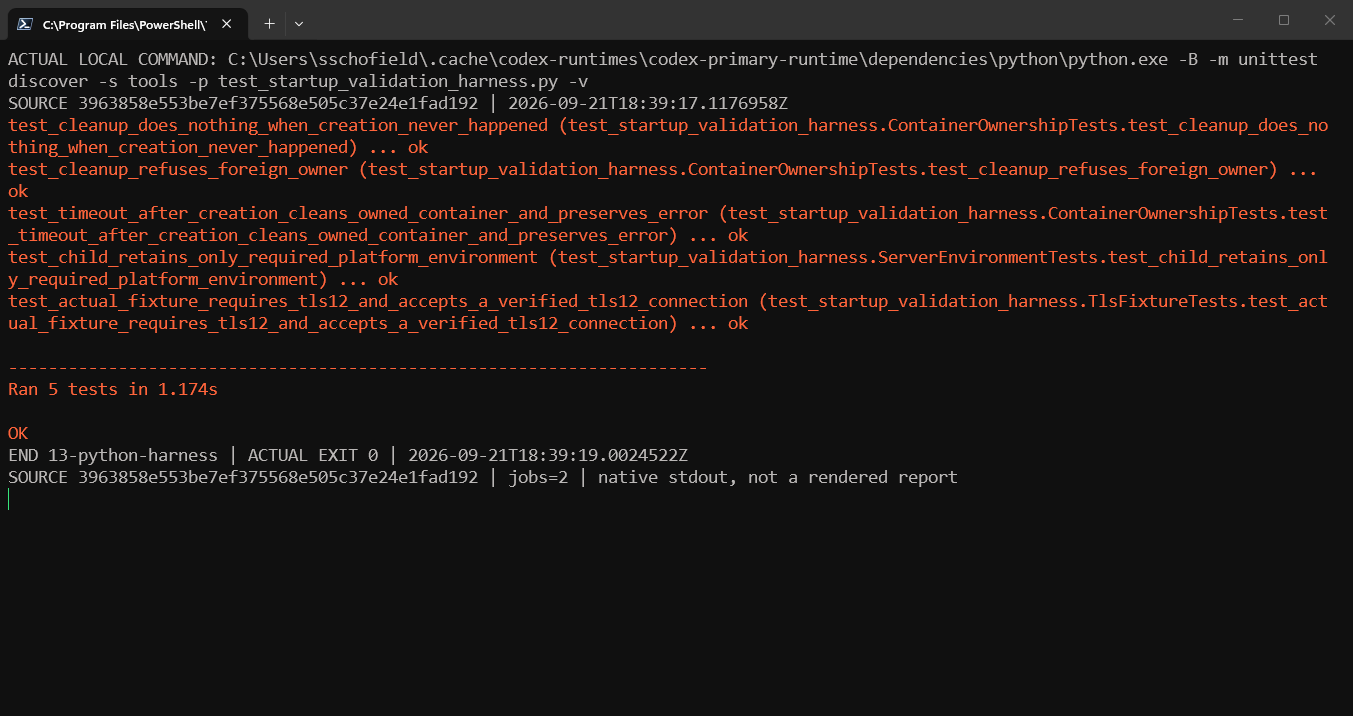
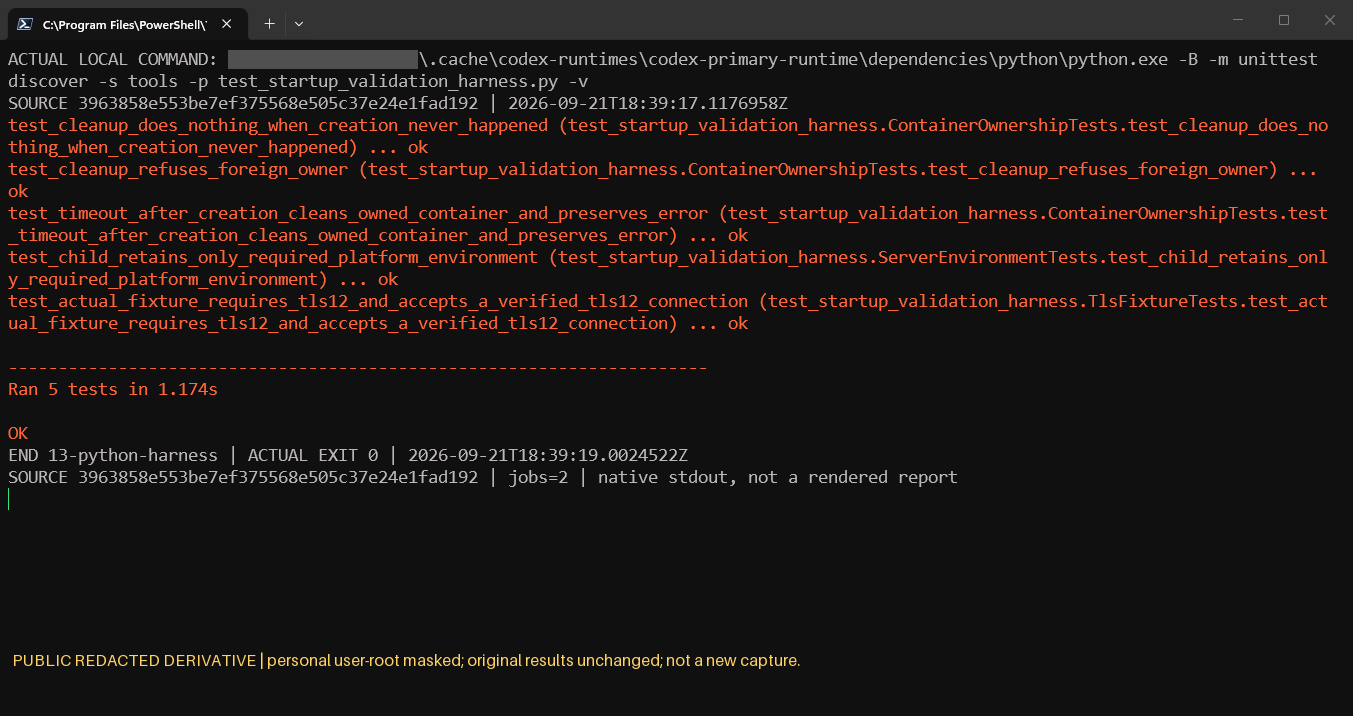
fix(evidence): bound metadata replay and disclose privacy derivatives

Changed region(s): [[0.1242, 0.9218, 0.5898, 0.9525], [0.1552, 0.0615, 0.3104, 0.1229], [0.031, 0.9218, 0.0931, 0.9525]]

diff --git a/tools/test_public_evidence_verifier.py b/tools/test_public_evidence_verifier.py
@@ -331,6 +331,99 @@ class PublicEvidenceVerifierTests(unittest.TestCase):
             self.mutate_manifest(base, lambda manifest: manifest["archive_members"].append(dict(manifest["archive_members"][0])))
             self.assert_refused(base, "duplicate archive path")
 
+    def test_duplicate_image_rows_are_rejected_before_payload(self):
+        for alias in (False, True):
+            with self.subTest(case_alias=alias), self.packet_copy() as base:
+                def duplicate(manifest):
+                    row = dict(manifest["images"][0])
+                    if alias:
+                        row["path"] = row["path"].upper()
+                    manifest["images"].append(row)
+                self.mutate_manifest(base, duplicate)
+                self.assert_inventory_refused_before_payload(base, "duplicate image path")
+
+    def test_image_metadata_count_and_type_are_admitted_before_payload(self):
+        for count in (PACKET_FILE_COUNT - 1, PACKET_FILE_COUNT, None):
+            with self.subTest(count=count), self.packet_copy() as base:
+                def replace(manifest):
+                    manifest["images"] = ([dict(manifest["images"][0])] * count
+                                          if count is not None else {})
+                self.mutate_manifest(base, replace)
+                message = ("duplicate image path" if count == PACKET_FILE_COUNT - 1
+                           else "image manifest exceeds file limit")
+                self.assert_inventory_refused_before_payload(base, message)
+
+    def replace_readme(self, base, text):
+        data = text.encode("utf-8")
+        (base / PACKETS[0] / "README.md").write_bytes(data)
+
+        def update(manifest):
+            row = next(row for row in manifest["delivered_files"] if row["path"] == "README.md")
+            row.update(sha256=hashlib.sha256(data).hexdigest(), bytes=len(data))
+            row.pop("canonical_lf_sha256", None)
+        self.mutate_manifest(base, update)
+
+    def test_readme_reference_count_boundary_and_plus_one(self):
+        for reference in ("[local](README.md)", "[external](https://example.invalid)",
+                          "[anchor](#section)", "[empty]()"):
+            for count in (PACKET_FILE_COUNT, PACKET_FILE_COUNT + 1):
+                with self.subTest(reference=reference, count=count), self.packet_copy() as base:
+                    self.replace_readme(base, reference * count)
+                    verifier = self.verifier_module()
+                    original = verifier.read_file
+                    readmes = 0
+                    links_active = False
+                    link_checks = []
+                    regular = verifier.regular_file
+
+                    def read(root, relative, **kwargs):
+                        nonlocal readmes, links_active
+                        if root != base / PACKETS[0]:
+                            links_active = False
+                        data = original(root, relative, **kwargs)
+                        if root == base / PACKETS[0] and relative == "README.md":
+                            readmes += 1
+                            links_active = readmes == 2
+                        return data
+
+                    def inspect(root, relative):
+                        if root == base / PACKETS[0] and links_active:
+                            link_checks.append(relative)
+                        return regular(root, relative)
+
+                    with (patch.object(verifier, "read_file", side_effect=read),
+                          patch.object(verifier, "regular_file", side_effect=inspect)):
+                        if count == PACKET_FILE_COUNT:
+                            verifier.verify(base)
+                            expected = count if reference == "[local](README.md)" else 0
+                            self.assertEqual(len(link_checks), expected)
+                        else:
+                            with self.assertRaisesRegex(AssertionError, "README exceeds reference limit"):
+                                verifier.verify(base)
+                            self.assertEqual(link_checks, [], "Reference lookup before metadata admission.")
+
+    def test_readme_unmatched_marker_boundary_and_plus_one(self):
+        for count in (PACKET_FILE_COUNT, PACKET_FILE_COUNT + 1):
+            with self.subTest(count=count), self.packet_copy() as base:
+                self.replace_readme(base, "](" * count)
+                if count == PACKET_FILE_COUNT:
+                    result = self.invoke(base / PACKETS[-1] / "verify_public.py")
+                    self.assertEqual(result.returncode, 0, result.stderr)
+                else:
+                    self.assert_refused(base, "README exceeds reference limit")
+
+    def test_readme_scanning_does_not_allocate_regex_matches(self):
+        with self.packet_copy() as base:
+            # Preserve local/cross-packet, external, fragment and empty-link
+            # semantics, followed by an unmatched suffix. No timing threshold.
+            self.replace_readme(base, "[local](README.md) [fragment](#section) [empty]() "
+                f"[cross](../{PACKETS[1]}/README.md) [external](https://example.invalid) "
+                + "](" * (PACKET_FILE_COUNT - 5))
+            verifier = self.verifier_module()
+            with patch.object(verifier.re, "findall",
+                              side_effect=RuntimeError("unbounded regex match allocation")):
+                verifier.verify(base)
+
     def test_intact_copy_under_linked_temporary_parent_is_accepted(self):
         with tempfile.TemporaryDirectory(prefix="ecorp-public-evidence-temp-parent-") as root:
             parent = Path(root).resolve(strict=True)

diff --git a/docs/evidence/pr362-combined-20260921/verify_public.py b/docs/evidence/pr362-combined-20260921/verify_public.py
@@ -138,6 +138,9 @@ def verify(base, source=None):
         delivered = [filename(row['path']) for row in manifest['delivered_files']]
         assert len(delivered) == len(set(path.casefold() for path in delivered)), 'duplicate packet filename'
         assert 'manifest.json' not in delivered, 'manifest cannot hash itself'
+        assert isinstance(manifest['images'], list) and len(manifest['images']) < MAX_PACKET_FILES, 'image manifest exceeds file limit'
+        images = [filename(row['path']) for row in manifest['images']]
+        assert len(images) == len(set(path.casefold() for path in images)), 'duplicate image path'
         actual = set()
         sizes = {}
         # scandir streams entries; Path.iterdir may first allocate every name.
@@ -197,7 +200,18 @@ def verify(base, source=None):
             if not row['rectangles']:
                 assert row['raw_sha256'] == row['public_sha256']
                 assert row['raw_bytes'] == row['public_bytes']
-        for link in re.findall(r'\]\(([^)]+)\)', payload(name, 'README.md').decode('utf-8-sig')):
+        readme = payload(name, 'README.md').decode('utf-8-sig')
+        # Count even empty/external/unmatched markers before any reference lookup.
+        assert readme.count('](') <= MAX_PACKET_FILES, 'README exceeds reference limit'
+        position = 0
+        while (start := readme.find('](', position)) != -1:
+            end = readme.find(')', start + 2)
+            if end == -1:
+                break
+            link = readme[start + 2:end]
+            position = end + 1
+            if not link:
+                continue
             if '://' not in link:
                 local = link.split('#')[0]
                 if not local:

diff --git a/tools/verify_pr362_staged_evidence.py b/tools/verify_pr362_staged_evidence.py
@@ -22,7 +22,7 @@ import subprocess
 import zipfile
 from staged_evidence_inventory import require_regression_count, staged_blobs
 
-EXPECTED_REGRESSIONS = 63
+EXPECTED_REGRESSIONS = 68
 
 REQUIRED_GATES = {
     'migrations': ('node', ['tools/check_migrations.mjs']),

diff --git a/docs/evidence/2026-09-21-pr362-gauntlet-remediation.md b/docs/evidence/2026-09-21-pr362-gauntlet-remediation.md
@@ -183,3 +183,43 @@ edit, review dismissal, merge, provider call, or policy waiver is performed by t
 
 
 September 22, 2026 publication correction: the report and retained receipt text now use `<original-user>` for personal home prefixes. The public archive is a path-normalized copy; private original bytes are retained. The manifest records separate original and published hashes, and hashes inside historical receipt payloads continue to describe the original execution bytes. Screenshot bytes, recorded results and historical source bindings are unchanged.
+
+## September 22, 2026 — R9 F03 public image privacy correction
+
+The preceding text-only correction is historical. Two images now have explicitly labelled
+**PUBLIC REDACTED DERIVATIVE** representations: `13-python-harness.png` and
+`proxy-retrospective-red.png` in `pr362-gauntlet-20260921/screenshots/`. Only their visible
+personal user-root rectangles are masked; a disclosure occupies previously empty background.
+These are not new runtime captures. All test/result/failure pixels outside those declared
+rectangles remain identical, including the retrospective failure and exit 1.
+
+Before editing, both originals were copied to the private R9 `image-privacy/private-originals`
+operator packet and verified byte-for-byte against Git
+`77278c4cad5cdcd1c19ad586b4dd002e4ec630dd:docs/evidence/pr362-gauntlet-20260921/screenshots/<filename>`.
+The [manifest](pr362-gauntlet-20260921/manifest.json) records exact original Git pointers,
+raw/public digests and lengths, dimensions, mask/disclosure rectangles and tool binding.
+
+| Image | Original SHA-256 | Current public SHA-256 |
+| --- | --- | --- |
[2 lines of base64/hex data omitted]
+
+Existing capture timestamps, routes, source identities, log hashes and archived image
+provenance remain historical. In particular, `captures.sha256` hashes the log, not the PNG.
+The proxy archive's original image hash remains unchanged; current image hashes are separate.
+Earlier combined/R3–R5 source bindings still describe their recorded trees, not this correction.
+No ZIP member or historical receipt was rewritten. The manifest's `original_manifest_sha256`
+is the preserved CRLF working-file digest; the immutable Git manifest uses LF and has SHA-256
[1 lines of base64/hex data omitted]
+
+The pre-bound private `privacy_derivative.py` driver
[1 lines of base64/hex data omitted]
+bundled Python 3.12.14 and Pillow 12.3.0 verified preserved originals, exact mask/disclosure
+pixels, unchanged dimensions, 111 inventory rows, 14 capture-log hashes, 87 ZIP members
+and 38 earlier text corrections. Both images reject a one-pixel RGB mutation and a one-pixel
+alpha mutation outside the allowed rectangles. Original and resulting images were visually
+inspected. This is scoped privacy/provenance proof, not OCR, general DLP or a credential-leak claim.
+
+Only these two PNGs, their first-packet manifest and this additive report changed. The parent
+must integrate the other workers' changes, run the combined nine gates and obtain fresh
+independent reviews. No author approval, Santa verdict or publication-safety claim is made.

diff --git a/docs/evidence/pr362-combined-20260921/README.md b/docs/evidence/pr362-combined-20260921/README.md
@@ -134,6 +134,14 @@ pixels; its script and inputs are retained in integration scratch. The portable
 checker cannot independently recover unpublished raw originals or verify image
 capture history; hashes alone are not proof of execution.
 
+Metadata replay also uses the fixed 128-file inventory headroom: image metadata
+must be a list of at most 127 case-insensitively unique filenames, admitted before
+payload reads. Each README permits at most 128 `](` markers, including repeated,
+external, empty and unmatched references, counted before reference lookups.
+Forward-only delimiter scans replace regex match allocation and repeated scans
+of unmatched suffixes. Existing pathname, byte-budget, archive and source checks
+remain in force; this is not a general Markdown parser.
+
 For a new test run, use this exact assembled source and a target exclusive to it.
 Set `TEMP`, `TMP`, and `TMPDIR` to a short new directory under native OS TEMP,
 verify no Git ancestor, retain the declared job/thread limits, and run the unchanged
